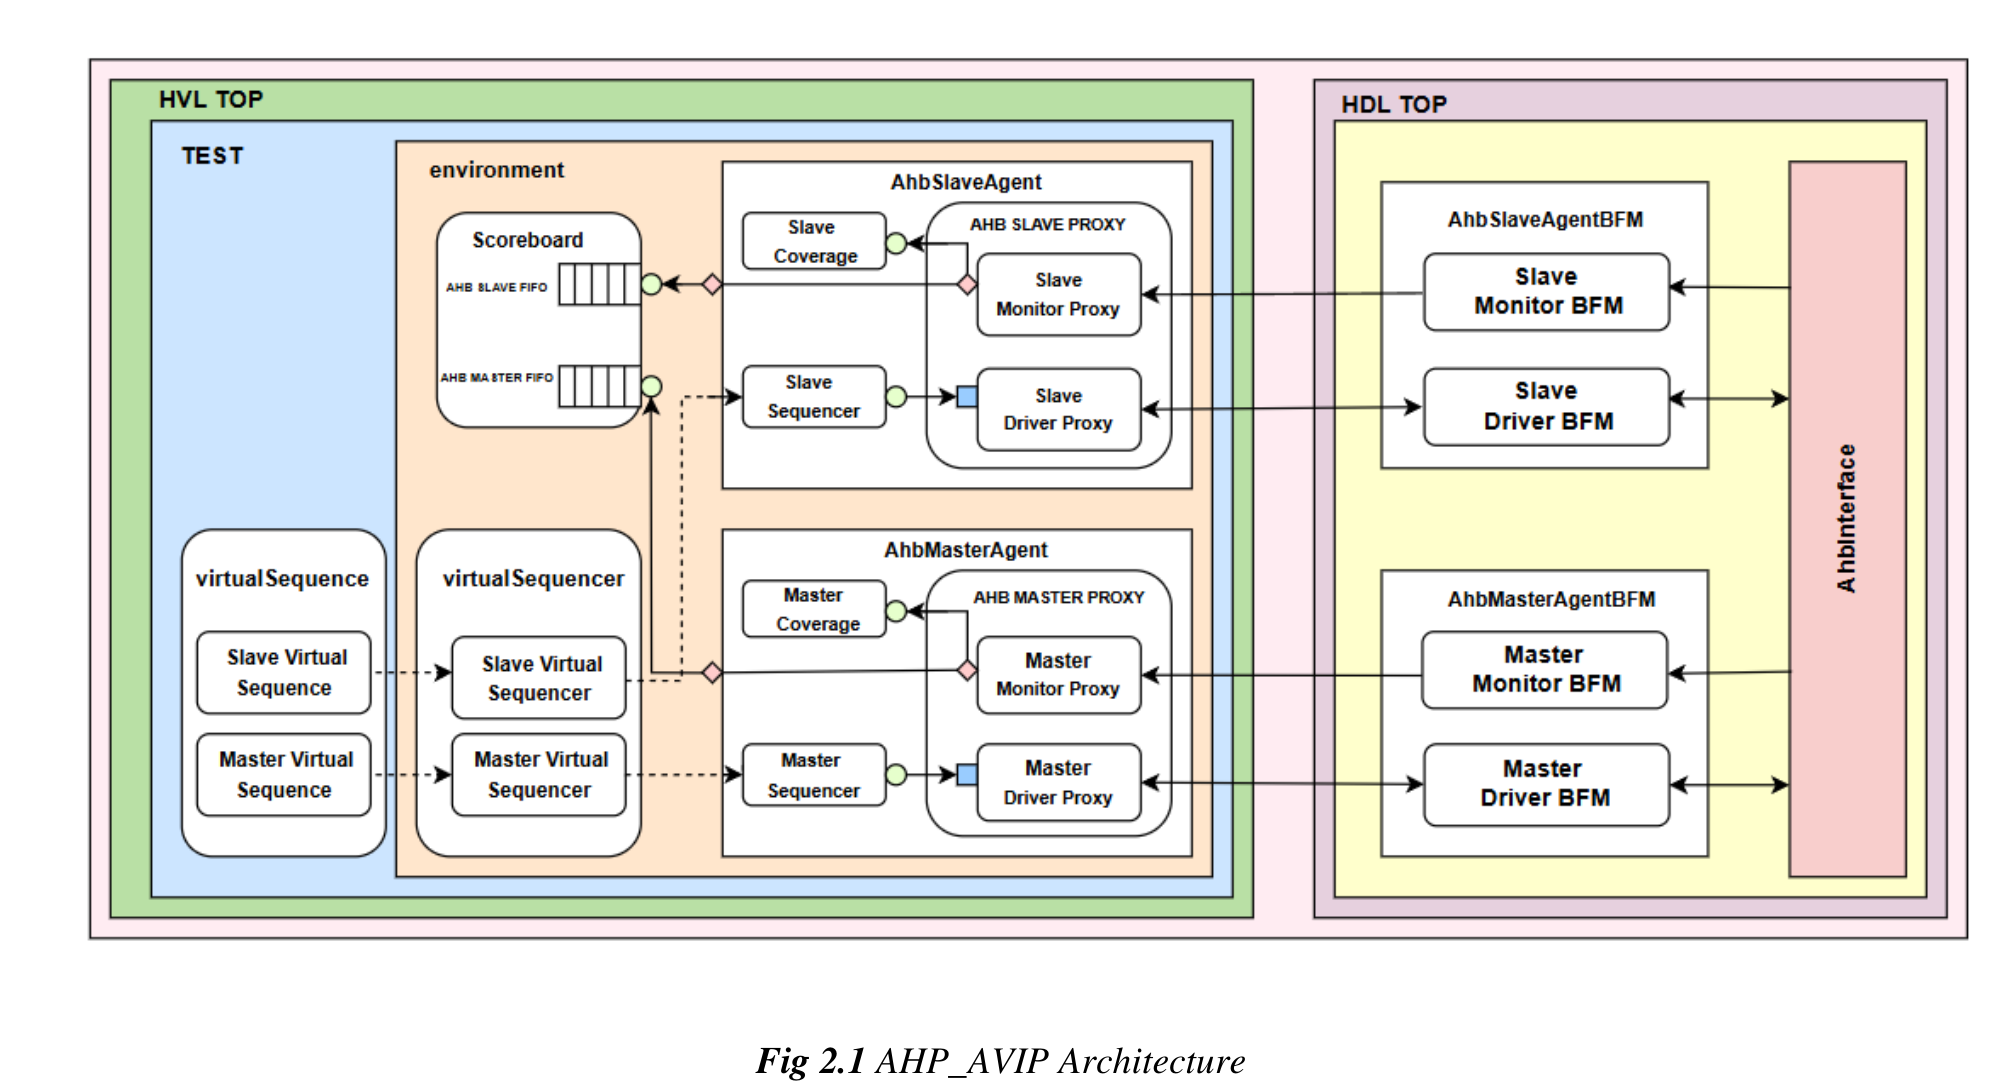
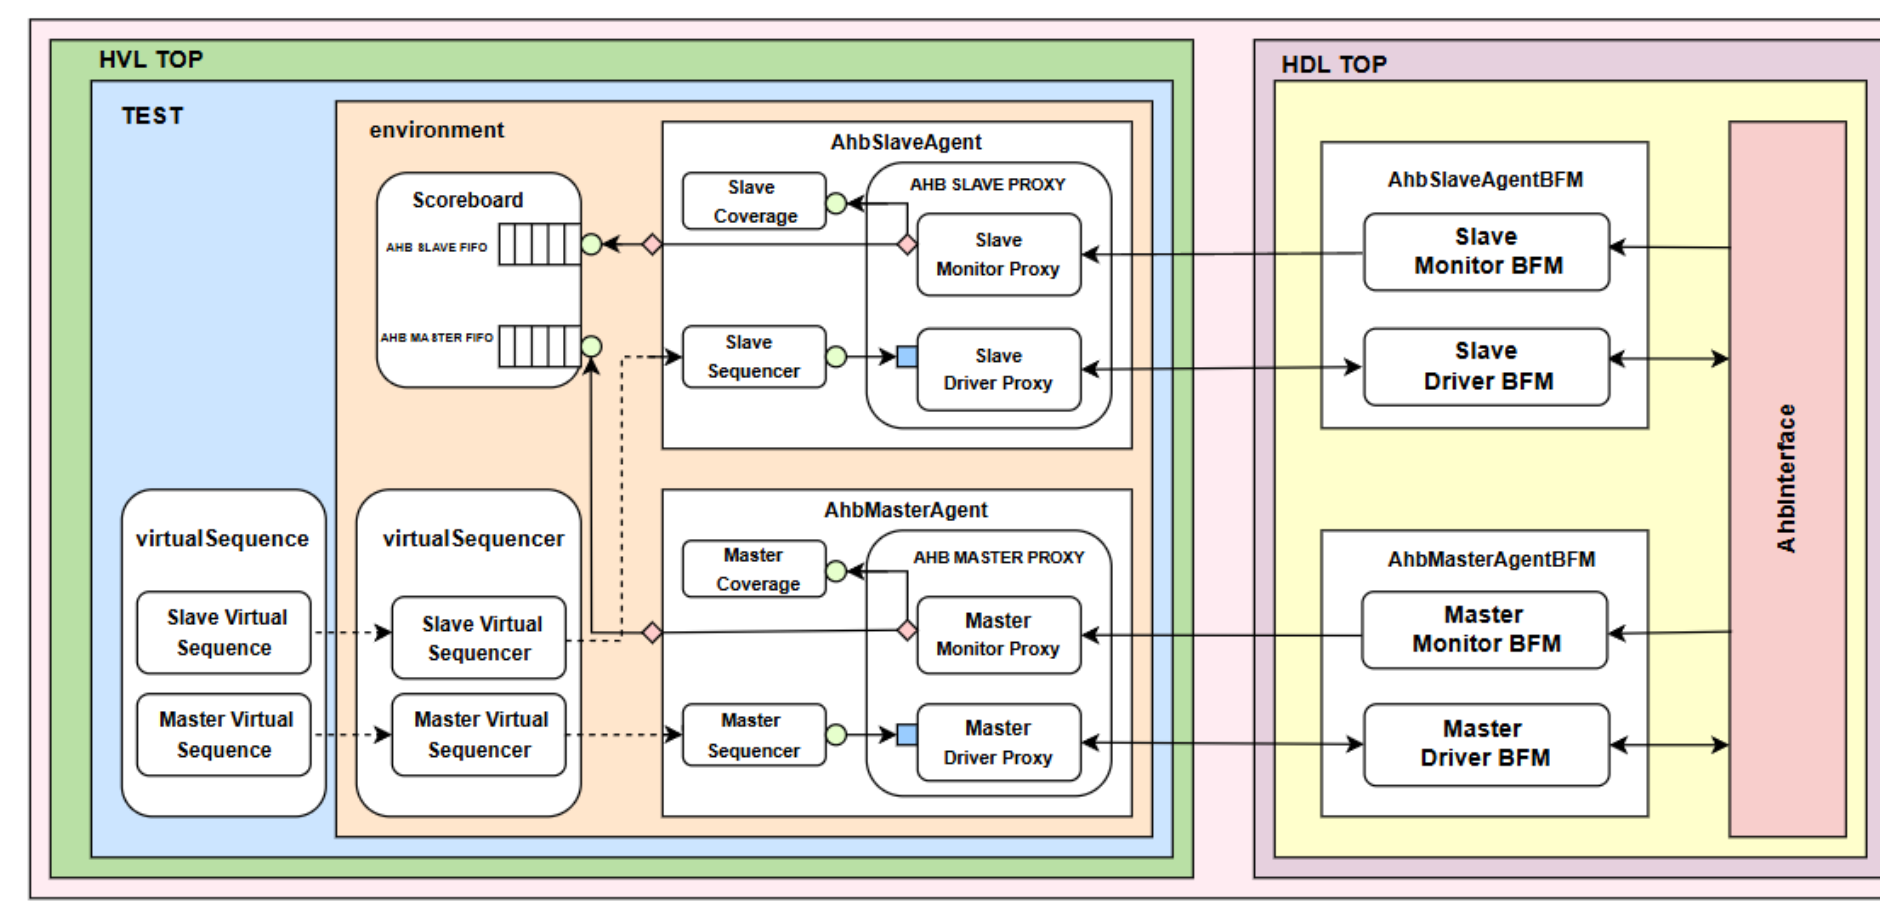
Tighten AHB architecture figure crop

diff --git a/tests/test_avip_docs.py b/tests/test_avip_docs.py
@@ -45,3 +45,16 @@ def test_active_avip_markdown_uses_distinct_existing_figure_assets() -> None:
                 if not (doc_dir / ref).is_file():
                     problems.append(f"missing figure asset for {md.relative_to(REPO_ROOT)}: {ref}")
     assert not problems, "\n".join(problems)
+
+
+def test_ahb_architecture_figure_2_1_is_tightly_cropped() -> None:
+    png = (
+        AVIP_DOC_ROOT
+        / "ahb_slave"
+        / "doc"
+        / "AhbAvipArchitectureDocument"
+        / "figures"
+        / "figure-009.png"
+    )
+    width, height = Image.open(png).size
+    assert width <= 1900 and height <= 950, f"{png.relative_to(REPO_ROOT)} {width}x{height}"

diff --git a/task_library/avip/ahb_slave/doc/AhbAvipArchitectureDocument/02_architecture.md b/task_library/avip/ahb_slave/doc/AhbAvipArchitectureDocument/02_architecture.md
@@ -1,56 +1,25 @@
 # Chapter 2 - Architecture
 
-
-<!-- page 9 -->
+## 2.1 AHB AVIP Testbench Architecture
 
 ![Figure 2.1: AHB-AVIP Architecture](figures/figure-009.png)
 
-Chapter 2
-                                     Architecture
+The Accelerated VIP (AVIP) for AHB is structured into two distinct top modules: `HVL TOP`
+and `HDL TOP`, as depicted in Figure 2.1. This division separates the synthesizable and
+unsynthesizable components of the testbench so the same environment works efficiently in both
+simulation and emulation modes.
 
+The `HDL TOP` contains the synthesizable components, including the interface plus clock and
+reset generation. It houses the bus functional models (BFMs), with slave and master drivers and
+monitors connected back to their proxy objects in the HVL domain so transaction-level methods
+can remain non-blocking.
 
-2.1 AHB AVIP Testbench Architecture
+The `HVL TOP` contains the untimed, unsynthesizable parts of the environment. Master and slave
+virtual sequences drive the virtual sequencer, which coordinates the agent proxies, BFMs, and
+scoreboard. Data collected by the monitor BFMs is forwarded to the scoreboard for checking and
+coverage collection.
 
-The Accelerated VIP (AVIP) for AHB is structured into two distinct top modules: HVL TOP
-and HDL TOP, as depicted in Figure 2.1. This division separates the synthesizable and un-
-synthesizable components of the testbench, optimizing its functionality for both simulation and
-emulation modes.
-
-
-
-
-                                   Fig 2.1 AHP_AVIP Architecture
-
-The HDL TOP contains the synthesizable components, including the interface, clock, and reset
-signal generation, allowing it to run efficiently in emulators. It houses the Bus Functional
-Models (BFMs), which consist of drivers and monitors with back-pointers to their proxies,
-enabling non-blocking method calls defined in the HVL.
-
-In contrast, the HVL TOP includes the un-synthesizable and untimed components, handling
-transaction flow from the master and slave virtual sequences through the BFM Proxy and BFM
-to the AHB interface. Data collected by the monitor BFMs is passed to the scoreboard for
-checking and coverage collection, ensuring robust verification.
-
-
-
-
-AHB_AVIP                                                                                    8
-
-
-
-<!-- page 10 -->
-
-Communication between the two modules is transaction-based, enabling the exchange of
-information-rich transactions. Tasks and functions within the HDL TOP interact seamlessly
-with their proxies in the HVL TOP, facilitating efficient data transfer.
-
-The clock generation within the HDL TOP inside the emulator ensures the emulator operates
-at full speed, enabling faster execution of longer tests. This modular approach provides a clear
-separation of concerns, ensuring scalability and efficiency in verifying AHB designs across
-simulation and emulation platforms.
-
-
-
-
-AHB_AVIP                                                                                     9
-
+Communication between the two modules is transaction-based, which allows the HDL and HVL
+domains to exchange information-rich transactions rather than raw pin activity. Keeping clock
+generation in the `HDL TOP` inside the emulator lets longer tests run at full emulator speed while
+preserving a clean separation of concerns between synthesizable and untimed verification logic.

diff --git a/docs/engineering-log.md b/docs/engineering-log.md
@@ -1,5 +1,12 @@
 # Engineering Log
 
+## 2026-03-30
+
+- The earlier AVIP repair pass was strong enough to reject literal full-page renders, but not
+  strong enough to reject page-like crops with excess whitespace. `AhbAvipArchitectureDocument`
+  Figure 2.1 was the concrete miss: the right fix was a tighter crop plus chapter-level markdown
+  cleanup around the figure so GitHub renders it like documentation instead of a page dump.
+
 ## 2026-03-28
 
 - The current generator failure mode on medium-tier tasks is no longer “missing public information,” but “analysis without executable evidence.” The generator prompt now explicitly requires the agent to write its own self-checking benches or directed tests under `result/evidence/`, dump focused waveforms when timing matters, and inspect them with `vcdcat` before claiming the RTL matches the spec.
